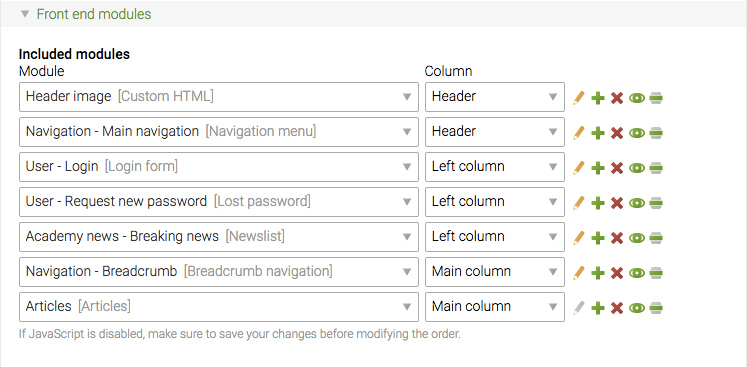
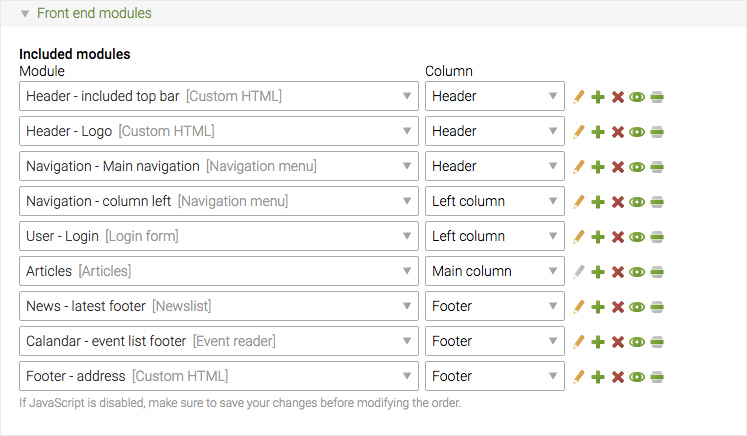
Update the chapter "Page layouts"

Changed region(s): [[0.0, 0.5095, 0.8929, 0.9591], [0.0, 0.0899, 0.8929, 0.4796], [0.0308, 0.0, 0.2155, 0.0599]]

diff --git a/manual/en/03-managing-pages/page-layouts.md b/manual/en/03-managing-pages/page-layouts.md
@@ -1,14 +1,23 @@
 ## Page layouts
 
 Page layouts determine the basic page setup, e.g. the number of columns or the
-overall width, and they define which front end modules are shown in which
+overall width, and they define which [front end modules][1] are shown in which
 columns. They also allow you to include style sheets, to link to RSS or Atom
 feeds, to associate a Google Analytics ID and to add arbitrary JavaScript code
 that is required to control interactive elements and plugins. The Contao CSS
 framework automatically divides the browser window into several layout sections
 and shows the modules that have been assigned to them one below the other.
 
+The example below shows a layout divided into four sections:
+
+1. an header (`#header`)
+2. a sidebar (`#left`)
+3. a main section (`#main`)
+4. a footer (`#footer`)
+
 ![](images/front-end-structure.jpg)
+
+The modules are added in each section thanks to the page layouts:
 
 ![](images/front-end-modules.jpg)
 
@@ -20,3 +29,6 @@ it is recommended to create resources in the following order:
 * Create the necessary style sheets
 * Optionally create news archives or calendars
 * Create a new page layout and combine the components
+
+
+[1]: ../03-managing-pages/modules.md
